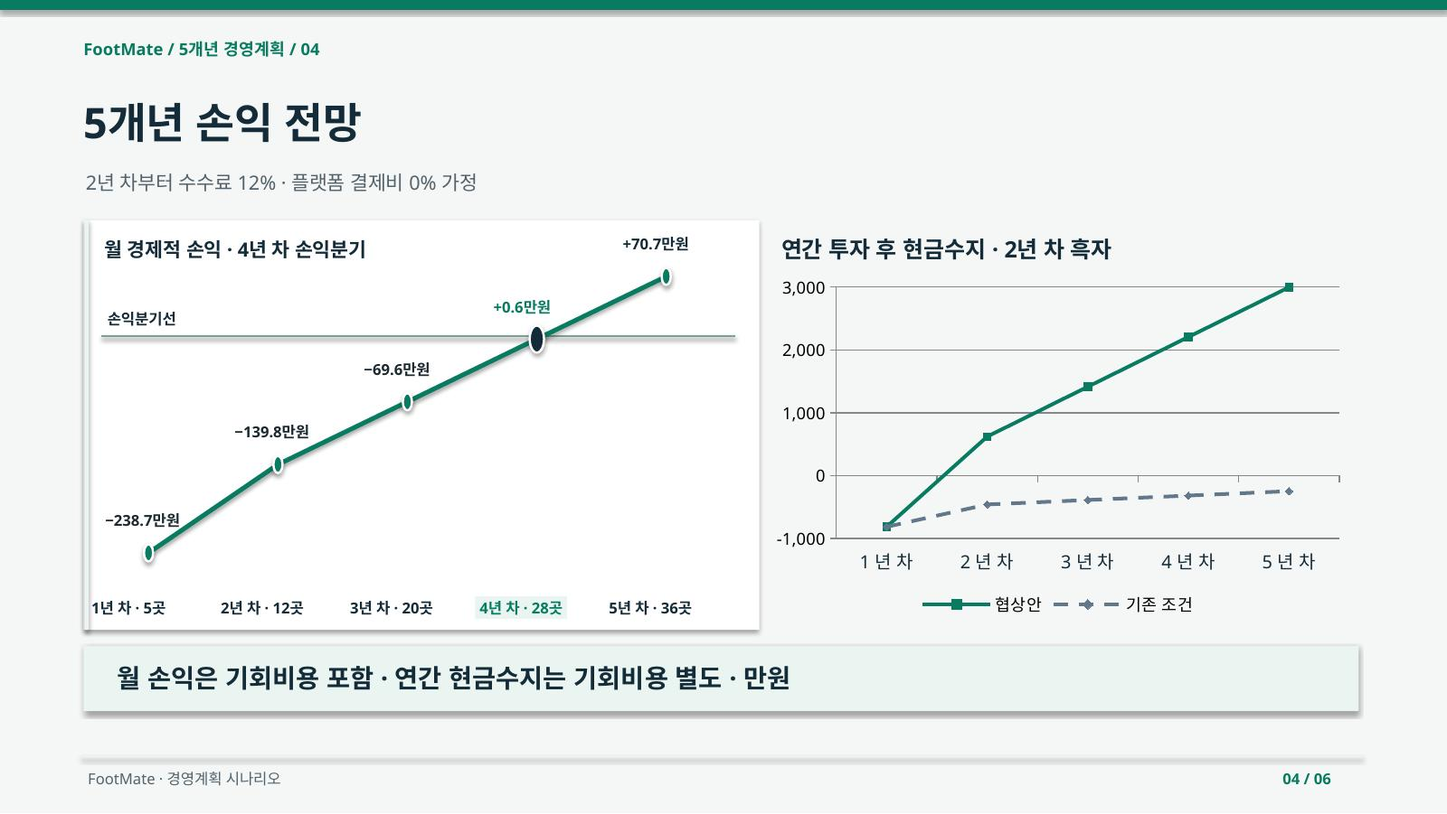
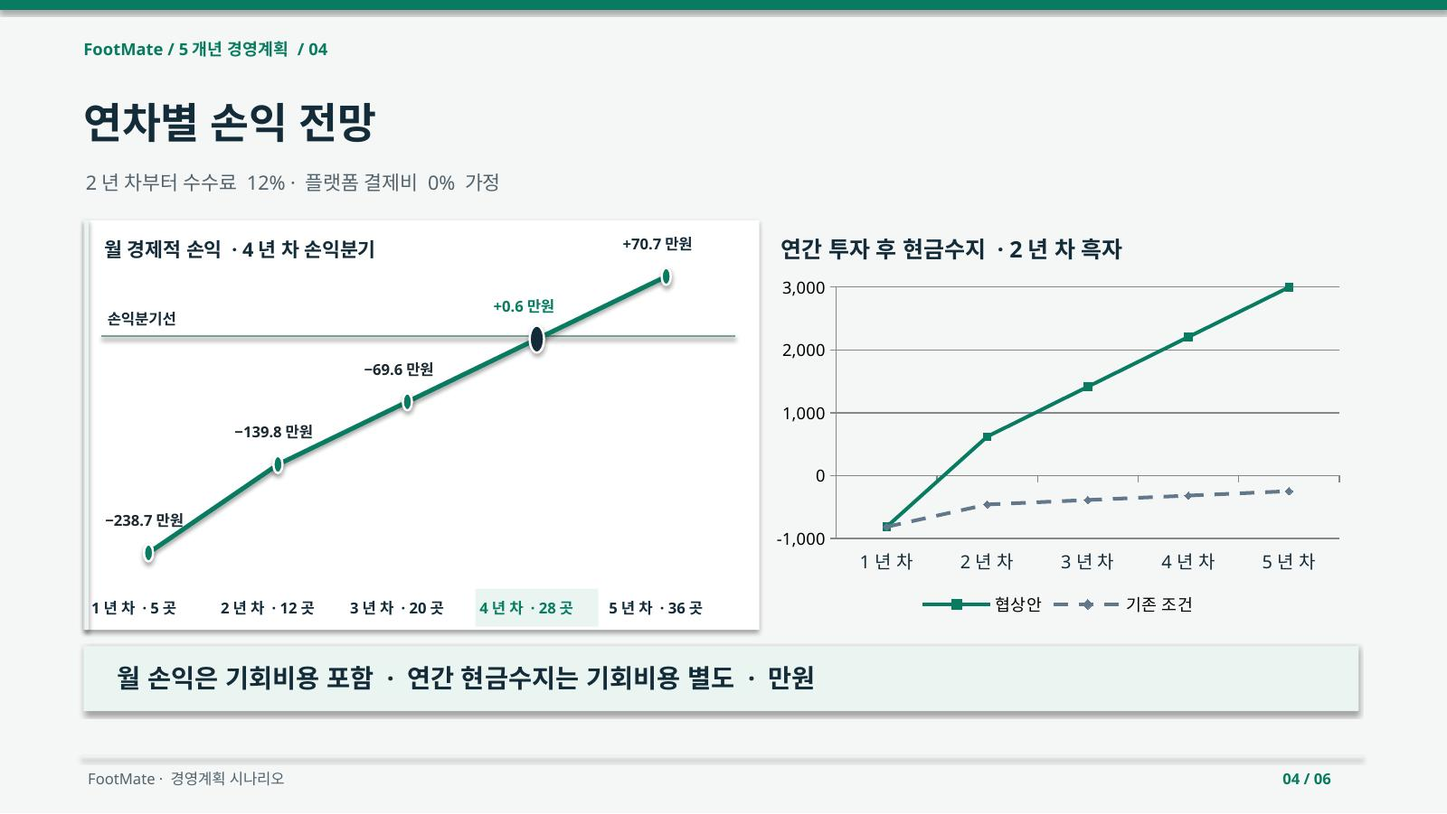
Remove repeated headings and descriptions across report and all three presentations

diff --git a/src/case-study/nine-sections.js b/src/case-study/nine-sections.js
@@ -20,7 +20,7 @@ const sections = [
     "name": "사업모델·역할",
     "title": "사업모델 비교·제휴형 선택",
     "lead": "누가 모집·운영·취소·정산 책임을 갖는지 먼저 정의한다.",
-    "body": "<p class=\"decision\">운영자 제휴형으로 시작하고, 직접 운영·구독형은 검증 후 검토한다.</p><p>기존 경기로 시범 운영한다. 유료 전환 전 취소·환불 책임과 정산 기준을 합의한다.</p><details class=\"case-extra\"><summary>세 가지 사업모델 비교</summary><div class=\"detail-body\"><div class=\"table-wrap\" role=\"region\" aria-label=\"사업모델 비교\" tabindex=\"0\"><table><caption>사업모델 비교</caption><thead><tr><th scope=\"col\">모델</th><th scope=\"col\">수익 구조</th><th scope=\"col\">비용·운영 요건</th><th scope=\"col\">판단</th></tr></thead><tbody><tr><th scope=\"row\">제휴형 경기 연결</th><td data-label=\"수익 구조\">완료 예약 거래액의 수수료</td><td data-label=\"비용·운영 요건\">운영자 공급 연동·고객 대응·정산 필요</td><td data-label=\"판단\">초기 현장 검증 우선안</td></tr><tr><th scope=\"row\">직접 경기 운영</th><td data-label=\"수익 구조\">참가비 총액에서 운영 원가 차감</td><td data-label=\"비용·운영 요건\">구장 대관·매니저 확보·최소 운영 인원·기상 대응 필요</td><td data-label=\"판단\">충원율과 운영 역량 확보 후 검토</td></tr><tr><th scope=\"row\">운영 도구 구독</th><td data-label=\"수익 구조\">운영자별 월 구독료</td><td data-label=\"비용·운영 요건\">업무 효율 가치·지불 의향 검증 필요</td><td data-label=\"판단\">지불 의향 확인 후 후속 검토</td></tr></tbody></table></div></div></details><details class=\"case-extra\"><summary>제휴형 운영 책임·유료 전환 요건</summary><div class=\"detail-body\"><div class=\"table-wrap\" role=\"region\" aria-label=\"제휴형 운영 책임 제안\" tabindex=\"0\"><table><caption>제휴형 운영 책임 제안</caption><thead><tr><th scope=\"col\">주체</th><th scope=\"col\">역할</th><th scope=\"col\">계약 전 확인</th></tr></thead><tbody><tr><th scope=\"row\">FootMate</th><td data-label=\"역할\">경기 노출·조건 추천·참가 기록·문의 접수·정산 금액 대조</td><td data-label=\"계약 전 확인\">거래 주체, 결제·환불 책임, 수수료 정산 기준</td></tr><tr><th scope=\"row\">경기 운영자</th><td data-label=\"역할\">경기 개설·정원 기준 정보·현장 진행·취소 결정</td><td data-label=\"계약 전 확인\">인원 미달·기상·노쇼·안전 대응과 정보 갱신 책임</td></tr><tr><th scope=\"row\">참가자</th><td data-label=\"역할\">조건·정책 확인 후 직접 참가 확정</td><td data-label=\"계약 전 확인\">취소 기한·출석·환불 조건 확인</td></tr></tbody></table></div><p aria-label=\"참가·결제는 이용자가 직접 확정하도록 설계한다.\">결제·환불·정산은 계약 후 확정. 참가·결제는 이용자 직접 승인.</p></div></details><details class=\"case-extra\"><summary>대안별 전환 조건·제휴 협상 근거</summary><div class=\"detail-body\"><h3>대안 선택·전환 조건</h3><div class=\"table-wrap\" role=\"region\" aria-label=\"사업모델 선택 기준\" tabindex=\"0\"><table><caption>사업모델 선택 기준</caption><thead><tr><th scope=\"col\">대안</th><th scope=\"col\">초기 투자·운영 범위</th><th scope=\"col\">선택 이유·전환 조건</th></tr></thead><tbody><tr><th scope=\"row\">제휴형 연결 · 우선 현장 검증</th><td data-label=\"초기 투자·운영 범위\">기존 경기 공급 연결. 연동·고객 대응·정산 비용 확인</td><td data-label=\"선택 이유·전환 조건\">공급 일정·수수료·정산 조건 확보 후 현장 검증</td></tr><tr><th scope=\"row\">직접 운영 · 조건부 대안</th><td data-label=\"초기 투자·운영 범위\">대관·매니저·현장 운영. 손익분기 14명(월 비용 별도).</td><td data-label=\"선택 이유·전환 조건\">반복 수요·현장 인력 확보, 취소 비용 포함 손익 검토 후 전환</td></tr><tr><th scope=\"row\">운영 도구 구독 · 후속 대안</th><td data-label=\"초기 투자·운영 범위\">운영 시간·도입 비용·지원 원가 조사. 구독료·전환율은 후속 검증</td><td data-label=\"선택 이유·전환 조건\">반복 업무·지불 의향 확인 후 구독 방식 시험 운영</td></tr></tbody></table></div><h3>제휴·영업 전략 의사결정 요약</h3><div class=\"table-wrap\" role=\"region\" tabindex=\"0\" aria-label=\"제휴 전략 의사결정표\"><table><caption>제휴·영업 전략 의사결정표 · 산정 근거</caption><thead><tr><th scope=\"col\">우선 검토</th><th scope=\"col\">제휴·협상 조건</th><th scope=\"col\">손익 영향과 판단</th></tr></thead><tbody><tr><th scope=\"row\">1 · 초기 공급 확보</th><td data-label=\"제휴·협상 조건\">운영자의 실제 슬롯·정원·취소 책임·수수료 수용 범위 확인</td><td data-label=\"손익 영향과 판단\">기준 10%·340원/건. 공급·책임 기준을 합의한 뒤 진행.</td></tr><tr><th scope=\"row\">2 · 조건별 협상</th><td data-label=\"제휴·협상 조건\">수수료 12%, 플랫폼 결제비 운영자 부담을 개별·복합 비교</td><td data-label=\"손익 영향과 판단\">12% 580원·결제비 0% 700원·복합 940원/건.</td></tr><tr><th scope=\"row\">3 · 조건부 확대</th><td data-label=\"제휴·협상 조건\">공급 유지율·플랫폼 예약 비중·추가 관리비를 동일 기간에 재계산</td><td data-label=\"손익 영향과 판단\">복합 협상 · 6번째부터 월 3만원/곳. 손익분기 약 28곳.</td></tr><tr><th scope=\"row\">협상 제안 · 우선안</th><td data-label=\"제휴·협상 조건\">수수료 12% · 결제비 운영자 부담</td><td data-label=\"손익 영향과 판단\">940원/건. 우선안으로 견적과 예상 손익 대조.</td></tr><tr><th scope=\"row\">협상 제안 · 조정안</th><td data-label=\"제휴·협상 조건\">수수료 10% 유지 · 결제비 운영자 부담</td><td data-label=\"손익 영향과 판단\">700원/건. 공급 확약을 전제로 확대 손익 재산정.</td></tr><tr><th scope=\"row\">계약 검토 · 운영 책임</th><td data-label=\"제휴·협상 조건\">운영자 취소 승인·환불 실행 / 플랫폼 문의 접수</td><td data-label=\"손익 영향과 판단\">정산 주기·수수료 차감·환불 차액 대사 기준 합의.</td></tr><tr><th scope=\"row\">계약 검토 · 집행 조건</th><td data-label=\"제휴·협상 조건\">슬롯·취소 기준·정산 내역을 계약 부속표에 명시</td><td data-label=\"손익 영향과 판단\">결제·환불·정산 책임 합의 후 유료 시범 승인.</td></tr></tbody></table></div></div></details><p class=\"source-note case-research-link\">타사 제휴 참고 · <a href=\"https://www.plabfootball.com/partners/venue\" target=\"_blank\" rel=\"noopener noreferrer\">플랩풋볼 구장 제휴 안내 ↗</a></p>"
+    "body": "<p class=\"decision\">운영자 제휴형으로 시작하고, 직접 운영·구독형은 검증 후 검토한다.</p><p>기존 경기로 시범 운영한다. 유료 전환 전 취소·환불 책임과 정산 기준을 합의한다.</p><details class=\"case-extra\"><summary>세 가지 사업모델 비교</summary><div class=\"detail-body\"><div class=\"table-wrap\" role=\"region\" aria-label=\"사업모델 비교\" tabindex=\"0\"><table><caption>수익 구조와 운영 요건</caption><thead><tr><th scope=\"col\">모델</th><th scope=\"col\">수익 구조</th><th scope=\"col\">비용·운영 요건</th><th scope=\"col\">판단</th></tr></thead><tbody><tr><th scope=\"row\">제휴형 경기 연결</th><td data-label=\"수익 구조\">완료 예약 거래액의 수수료</td><td data-label=\"비용·운영 요건\">운영자 공급 연동·고객 대응·정산 필요</td><td data-label=\"판단\">초기 현장 검증 우선안</td></tr><tr><th scope=\"row\">직접 경기 운영</th><td data-label=\"수익 구조\">참가비 총액에서 운영 원가 차감</td><td data-label=\"비용·운영 요건\">구장 대관·매니저 확보·최소 운영 인원·기상 대응 필요</td><td data-label=\"판단\">충원율과 운영 역량 확보 후 검토</td></tr><tr><th scope=\"row\">운영 도구 구독</th><td data-label=\"수익 구조\">운영자별 월 구독료</td><td data-label=\"비용·운영 요건\">업무 효율 가치·지불 의향 검증 필요</td><td data-label=\"판단\">지불 의향 확인 후 후속 검토</td></tr></tbody></table></div></div></details><details class=\"case-extra\"><summary>제휴형 운영 책임·유료 전환 요건</summary><div class=\"detail-body\"><div class=\"table-wrap\" role=\"region\" aria-label=\"제휴형 운영 책임 제안\" tabindex=\"0\"><table><caption>제휴형 운영 책임 제안</caption><thead><tr><th scope=\"col\">주체</th><th scope=\"col\">역할</th><th scope=\"col\">계약 전 확인</th></tr></thead><tbody><tr><th scope=\"row\">FootMate</th><td data-label=\"역할\">경기 노출·조건 추천·참가 기록·문의 접수·정산 금액 대조</td><td data-label=\"계약 전 확인\">거래 주체, 결제·환불 책임, 수수료 정산 기준</td></tr><tr><th scope=\"row\">경기 운영자</th><td data-label=\"역할\">경기 개설·정원 기준 정보·현장 진행·취소 결정</td><td data-label=\"계약 전 확인\">인원 미달·기상·노쇼·안전 대응과 정보 갱신 책임</td></tr><tr><th scope=\"row\">참가자</th><td data-label=\"역할\">조건·정책 확인 후 직접 참가 확정</td><td data-label=\"계약 전 확인\">취소 기한·출석·환불 조건 확인</td></tr></tbody></table></div><p aria-label=\"참가·결제는 이용자가 직접 확정하도록 설계한다.\">결제·환불·정산은 계약 후 확정. 참가·결제는 이용자 직접 승인.</p></div></details><details class=\"case-extra\"><summary>대안별 전환 조건·제휴 협상 근거</summary><div class=\"detail-body\"><h3>대안 선택·전환 조건</h3><div class=\"table-wrap\" role=\"region\" aria-label=\"사업모델 선택 기준\" tabindex=\"0\"><table><caption>사업모델 선택 기준</caption><thead><tr><th scope=\"col\">대안</th><th scope=\"col\">초기 투자·운영 범위</th><th scope=\"col\">선택 이유·전환 조건</th></tr></thead><tbody><tr><th scope=\"row\">제휴형 연결 · 우선 현장 검증</th><td data-label=\"초기 투자·운영 범위\">기존 경기 공급 연결. 연동·고객 대응·정산 비용 확인</td><td data-label=\"선택 이유·전환 조건\">공급 일정·수수료·정산 조건 확보 후 현장 검증</td></tr><tr><th scope=\"row\">직접 운영 · 조건부 대안</th><td data-label=\"초기 투자·운영 범위\">대관·매니저·현장 운영. 손익분기 14명(월 비용 별도).</td><td data-label=\"선택 이유·전환 조건\">반복 수요·현장 인력 확보, 취소 비용 포함 손익 검토 후 전환</td></tr><tr><th scope=\"row\">운영 도구 구독 · 후속 대안</th><td data-label=\"초기 투자·운영 범위\">운영 시간·도입 비용·지원 원가 조사. 구독료·전환율은 후속 검증</td><td data-label=\"선택 이유·전환 조건\">반복 업무·지불 의향 확인 후 구독 방식 시험 운영</td></tr></tbody></table></div><h3>제휴·영업 전략 의사결정 요약</h3><div class=\"table-wrap\" role=\"region\" tabindex=\"0\" aria-label=\"제휴 전략 의사결정표\"><table><caption>제휴·영업 전략 의사결정표 · 산정 근거</caption><thead><tr><th scope=\"col\">우선 검토</th><th scope=\"col\">제휴·협상 조건</th><th scope=\"col\">손익 영향과 판단</th></tr></thead><tbody><tr><th scope=\"row\">1 · 초기 공급 확보</th><td data-label=\"제휴·협상 조건\">운영자의 실제 슬롯·정원·취소 책임·수수료 수용 범위 확인</td><td data-label=\"손익 영향과 판단\">기준 10%·340원/건. 공급·책임 기준을 합의한 뒤 진행.</td></tr><tr><th scope=\"row\">2 · 조건별 협상</th><td data-label=\"제휴·협상 조건\">수수료 12%, 플랫폼 결제비 운영자 부담을 개별·복합 비교</td><td data-label=\"손익 영향과 판단\">12% 580원·결제비 0% 700원·복합 940원/건.</td></tr><tr><th scope=\"row\">3 · 조건부 확대</th><td data-label=\"제휴·협상 조건\">공급 유지율·플랫폼 예약 비중·추가 관리비를 동일 기간에 재계산</td><td data-label=\"손익 영향과 판단\">복합 협상 · 6번째부터 월 3만원/곳. 손익분기 약 28곳.</td></tr><tr><th scope=\"row\">협상 제안 · 우선안</th><td data-label=\"제휴·협상 조건\">수수료 12% · 결제비 운영자 부담</td><td data-label=\"손익 영향과 판단\">940원/건. 우선안으로 견적과 예상 손익 대조.</td></tr><tr><th scope=\"row\">협상 제안 · 조정안</th><td data-label=\"제휴·협상 조건\">수수료 10% 유지 · 결제비 운영자 부담</td><td data-label=\"손익 영향과 판단\">700원/건. 공급 확약을 전제로 확대 손익 재산정.</td></tr><tr><th scope=\"row\">계약 검토 · 운영 책임</th><td data-label=\"제휴·협상 조건\">운영자 취소 승인·환불 실행 / 플랫폼 문의 접수</td><td data-label=\"손익 영향과 판단\">정산 주기·수수료 차감·환불 차액 대사 기준 합의.</td></tr><tr><th scope=\"row\">계약 검토 · 집행 조건</th><td data-label=\"제휴·협상 조건\">슬롯·취소 기준·정산 내역을 계약 부속표에 명시</td><td data-label=\"손익 영향과 판단\">결제·환불·정산 책임 합의 후 유료 시범 승인.</td></tr></tbody></table></div></div></details><p class=\"source-note case-research-link\">타사 제휴 참고 · <a href=\"https://www.plabfootball.com/partners/venue\" target=\"_blank\" rel=\"noopener noreferrer\">플랩풋볼 구장 제휴 안내 ↗</a></p>"
   },
   {
     "name": "수요·공급 시나리오",
@@ -38,7 +38,7 @@ const sections = [
     "name": "IT 투자·시스템 구조",
     "title": "IT 구축 범위·투자 계획",
     "lead": "구현한 기능과 추가로 필요한 시스템을 구분한다.",
-    "body": "<div class=\"decision-grid\" aria-label=\"구현·검증·후속 과제\"><article class=\"decision-card\"><p class=\"decision-card-label\">구현</p><h2>보조 서비스 구현</h2><p>로그인·경기·참가·취소·정원·AI·알림 구현.</p></article><article class=\"decision-card\"><p class=\"decision-card-label\">검증</p><h2>예시 데이터로 기능 확인</h2><p>참가·취소 흐름과 화면 접근성을 확인.</p></article><article class=\"decision-card\"><p class=\"decision-card-label\">후속 구축 항목</p><h2>유료 전환 시스템</h2><p>계약 조건을 확인한 뒤 결제·환불·정산 기능 구축.</p></article></div><details class=\"case-extra\"><summary>기능별 확인 결과</summary><div class=\"detail-body\"><div class=\"table-wrap\" role=\"region\" aria-label=\"구현·검증 요약\" tabindex=\"0\"><table><caption>구현·검증 요약</caption><thead><tr><th scope=\"col\">영역</th><th scope=\"col\">구현·확인 결과</th><th scope=\"col\">검증 범위·후속 과제</th></tr></thead><tbody><tr><th scope=\"row\">참가·취소</th><td data-label=\"구현 결과\">참가 시 정원 차감·취소 시 복원. 중복 참가 차단.</td><td data-label=\"후속 검증\">참가·정원 처리 구현. 실제 현장 운영은 별도 현장 검증</td></tr><tr><th scope=\"row\">이용 흐름</th><td data-label=\"구현 결과\">로그인 → 참가 → 새로고침 → 취소 흐름 확인.</td><td data-label=\"후속 검증\">화면 동작 검사. 실제 서버의 동시 요청 처리는 별도 검증</td></tr><tr><th scope=\"row\">화면·접근성</th><td data-label=\"구현 결과\">320–1920px·200% 확대·키보드·접근성 검사 통과.</td><td data-label=\"후속 검증\">기술 동작 확인. 고객 수요·재참가·유료 매출과 구분</td></tr><tr><th scope=\"row\">결제·정산</th><td data-label=\"구현 결과\">무료 참가 구현 · 결제·환불·정산은 유료화 단계에 구축</td><td data-label=\"후속 검증\">계약·환불·정산 책임 확정 후 별도 구축·검증</td></tr></tbody></table></div></div></details><p><a href=\"https://footmate.fmate.workers.dev/demo\" target=\"_blank\" rel=\"noopener noreferrer\">서비스 데모 ↗</a></p><h2 class=\"block-title\">시스템·데이터 구조</h2><ol class=\"architecture\"><li><strong>이용자·운영자</strong><span>조건 선택·참가 요청 / 경기·참가 상태 관리</span></li><li><strong>웹·API</strong><span>로그인 확인·추천 요청·화면 제공</span></li><li><strong>서버 데이터</strong><span>계정·경기·포지션 정원·참가·체크인·피드백</span></li><li><strong>외부 연동·후속</strong><span>AI·이메일·브라우저 알림 / 결제·정산 후속 구축 대상</span></li></ol><details class=\"case-extra\"><summary>IT 도입·구축 범위 상세 비교</summary><div class=\"detail-body\"><div class=\"table-wrap\" role=\"region\" aria-label=\"IT 도입과 구축 범위\" tabindex=\"0\"><table><caption>IT 도입과 구축 범위</caption><thead><tr><th scope=\"col\">영역</th><th scope=\"col\">기존 구현·추가 설계</th><th scope=\"col\">후속 투자 기준</th></tr></thead><tbody><tr><th scope=\"row\">인증·데이터</th><td data-label=\"구현 상태\">기존 구현 · 로그인·참가·포지션별 정원·출석 기록 연동</td><td data-label=\"후속 조건\">접근 통제·정원 일관성·복구 방안 검증</td></tr><tr><th scope=\"row\">웹·API 배포</th><td data-label=\"구현 상태\">기존 구현 · 웹 화면·서버 기능 배포</td><td data-label=\"후속 조건\">배포·복구 절차와 사용량 예산 관리</td></tr><tr><th scope=\"row\">AI</th><td data-label=\"구현 상태\">기존 구현 · 선택 조건에 맞는 실제 경기 중 AI 추천 순서 적용</td><td data-label=\"후속 조건\">기본 정렬 대비 효과 확인 후 호출 예산 확대</td></tr><tr><th scope=\"row\">운영 알림</th><td data-label=\"구현 상태\">기존 연동 · 이메일·동의 기반 브라우저 알림</td><td data-label=\"후속 조건\">전달 상태·중복 방지·재처리·비용 모니터링</td></tr><tr><th scope=\"row\">유료 전환</th><td data-label=\"구현 상태\">향후 구축 · 유료 결제·환불·운영자 정산은 후속 구축 범위</td><td data-label=\"후속 조건\">운영자 계약과 손익 검증 후 결제·환불·거래 기록 대조 체계 구축</td></tr></tbody></table></div></div></details><details><summary>월 IT·운영 예산 세부 내역</summary><div class=\"detail-body\"><div class=\"table-wrap\" role=\"region\" aria-label=\"월 IT·운영 고정비 예산 · 견적 전 계획\" tabindex=\"0\"><table><caption>월 IT·운영 고정비 예산 · 견적 전 계획</caption><thead><tr><th scope=\"col\">항목</th><th scope=\"col\">계획 예산</th><th scope=\"col\">통제 방법</th></tr></thead><tbody><tr><th scope=\"row\">인프라 기본료·저장</th><td data-label=\"예산\">150,000원</td><td data-label=\"운영 기준\">요청·저장 사용량과 경보 한도</td></tr><tr><th scope=\"row\">운영 도구</th><td data-label=\"예산\">100,000원</td><td data-label=\"운영 기준\">필수 도구만 유지, 월별 재검토</td></tr><tr><th scope=\"row\">모니터링·관리</th><td data-label=\"예산\">150,000원</td><td data-label=\"운영 기준\">고정 관리 업무 예산, 건별 대응비와 구분</td></tr><tr><th scope=\"row\">예비비</th><td data-label=\"예산\">200,000원</td><td data-label=\"운영 기준\">예상 외 사용량·운영 보완</td></tr><tr><th scope=\"row\">합계</th><td data-label=\"예산\">600,000원/월</td><td data-label=\"운영 기준\">사업 검토를 위해 산정한 계획 예산</td></tr></tbody></table></div></div></details><details><summary>데이터별 관리·검증 기준</summary><div class=\"detail-body\"><div class=\"table-wrap\" role=\"region\" aria-label=\"주요 데이터와 관리 책임\" tabindex=\"0\"><table><caption>주요 데이터와 관리 책임</caption><thead><tr><th scope=\"col\">데이터</th><th scope=\"col\">관리 기준</th><th scope=\"col\">설계·검증 과제</th></tr></thead><tbody><tr><th scope=\"row\">경기·정원</th><td data-label=\"관리 기준\">운영자 등록, 등록된 경기·포지션별 잔여 인원 확인</td><td data-label=\"후속 검증\">서버 권한·상태 일관성 검증</td></tr><tr><th scope=\"row\">참가·취소</th><td data-label=\"관리 기준\">인증·권한·취소 기한과 정원 복원 확인</td><td data-label=\"후속 검증\">서버 권한·상태 일관성 검증</td></tr><tr><th scope=\"row\">예시 경기 기록</th><td data-label=\"관리 기준\">운영 데이터와 분리한 테스트 기록</td><td data-label=\"후속 검증\">테스트·운영 데이터 분리</td></tr><tr><th scope=\"row\">체크인·피드백</th><td data-label=\"관리 기준\">해당 참가·경기 상태에 연결</td><td data-label=\"후속 검증\">서버 권한·상태 일관성 검증</td></tr><tr><th scope=\"row\">결제·정산 원장</th><td data-label=\"관리 기준\">예약 ID·결제·환불·수수료·지급 상태 대조</td><td data-label=\"후속 검증\">유료 전환 전 구축·검증</td></tr></tbody></table></div></div></details><p>유료 전환 시 참가·결제 상태 분리. 중복 요청·환불·정산 오류 검증.</p><details><summary>참가·정원 관리의 설계 이유</summary><div class=\"detail-body\"><p>잔여 자리 재확인 후 참가·취소 처리.</p><p>참가·정원 동시 갱신. 중복 요청은 기존 결과 반환.</p><p>가상 데이터로 참가·취소·정원 복원 확인.</p></div></details>"
+    "body": "<div class=\"decision-grid\" aria-label=\"구현·검증·후속 과제\"><article class=\"decision-card\"><p class=\"decision-card-label\">구현</p><h2>보조 서비스 구현</h2><p>로그인·경기·참가·취소·정원·AI·알림.</p></article><article class=\"decision-card\"><p class=\"decision-card-label\">검증</p><h2>예시 데이터로 기능 확인</h2><p>점검 대상은 참가·취소 흐름과 화면 접근성.</p></article><article class=\"decision-card\"><p class=\"decision-card-label\">후속 구축 항목</p><h2>유료 전환 시스템</h2><p>계약 조건을 확인한 뒤 결제·환불·정산 기능 구축.</p></article></div><details class=\"case-extra\"><summary>기능별 확인 결과</summary><div class=\"detail-body\"><div class=\"table-wrap\" role=\"region\" aria-label=\"구현·검증 요약\" tabindex=\"0\"><table><caption>구현·검증 요약</caption><thead><tr><th scope=\"col\">영역</th><th scope=\"col\">구현·확인 결과</th><th scope=\"col\">검증 범위·후속 과제</th></tr></thead><tbody><tr><th scope=\"row\">참가·취소</th><td data-label=\"구현 결과\">참가 시 정원 차감·취소 시 복원. 중복 참가 차단.</td><td data-label=\"후속 검증\">참가·정원 처리 구현. 실제 현장 운영은 별도 현장 검증</td></tr><tr><th scope=\"row\">이용 흐름</th><td data-label=\"구현 결과\">로그인 → 참가 → 새로고침 → 취소 흐름 확인.</td><td data-label=\"후속 검증\">화면 동작 검사. 실제 서버의 동시 요청 처리는 별도 검증</td></tr><tr><th scope=\"row\">화면·접근성</th><td data-label=\"구현 결과\">320–1920px·200% 확대·키보드·접근성 검사 통과.</td><td data-label=\"후속 검증\">기술 동작 확인. 고객 수요·재참가·유료 매출과 구분</td></tr><tr><th scope=\"row\">결제·정산</th><td data-label=\"구현 결과\">무료 참가 구현 · 결제·환불·정산은 유료화 단계에 구축</td><td data-label=\"후속 검증\">계약·환불·정산 책임 확정 후 별도 구축·검증</td></tr></tbody></table></div></div></details><p><a href=\"https://footmate.fmate.workers.dev/demo\" target=\"_blank\" rel=\"noopener noreferrer\">서비스 데모 ↗</a></p><h2 class=\"block-title\">시스템·데이터 구조</h2><ol class=\"architecture\"><li><strong>이용자·운영자</strong><span>조건 선택·참가 요청 / 경기·참가 상태 관리</span></li><li><strong>웹·API</strong><span>로그인 확인·추천 요청·화면 제공</span></li><li><strong>서버 데이터</strong><span>계정·경기·포지션 정원·참가·체크인·피드백</span></li><li><strong>외부 연동·후속</strong><span>AI·이메일·브라우저 알림 / 결제·정산 후속 구축 대상</span></li></ol><details class=\"case-extra\"><summary>IT 도입·구축 범위 상세 비교</summary><div class=\"detail-body\"><div class=\"table-wrap\" role=\"region\" aria-label=\"IT 도입과 구축 범위\" tabindex=\"0\"><table><caption>기존 기능과 후속 투자 기준</caption><thead><tr><th scope=\"col\">영역</th><th scope=\"col\">기존 구현·추가 설계</th><th scope=\"col\">후속 투자 기준</th></tr></thead><tbody><tr><th scope=\"row\">인증·데이터</th><td data-label=\"구현 상태\">기존 구현 · 로그인·참가·포지션별 정원·출석 기록 연동</td><td data-label=\"후속 조건\">접근 통제·정원 일관성·복구 방안 검증</td></tr><tr><th scope=\"row\">웹·API 배포</th><td data-label=\"구현 상태\">기존 구현 · 웹 화면·서버 기능 배포</td><td data-label=\"후속 조건\">배포·복구 절차와 사용량 예산 관리</td></tr><tr><th scope=\"row\">AI</th><td data-label=\"구현 상태\">기존 구현 · 선택 조건에 맞는 실제 경기 중 AI 추천 순서 적용</td><td data-label=\"후속 조건\">기본 정렬 대비 효과 확인 후 호출 예산 확대</td></tr><tr><th scope=\"row\">운영 알림</th><td data-label=\"구현 상태\">기존 연동 · 이메일·동의 기반 브라우저 알림</td><td data-label=\"후속 조건\">전달 상태·중복 방지·재처리·비용 모니터링</td></tr><tr><th scope=\"row\">유료 전환</th><td data-label=\"구현 상태\">향후 구축 · 유료 결제·환불·운영자 정산은 후속 구축 범위</td><td data-label=\"후속 조건\">운영자 계약과 손익 검증 후 결제·환불·거래 기록 대조 체계 구축</td></tr></tbody></table></div></div></details><details><summary>월 IT·운영 예산 세부 내역</summary><div class=\"detail-body\"><div class=\"table-wrap\" role=\"region\" aria-label=\"월 IT·운영 고정비 예산 · 견적 전 계획\" tabindex=\"0\"><table><caption>월 IT·운영 고정비 예산 · 견적 전 계획</caption><thead><tr><th scope=\"col\">항목</th><th scope=\"col\">계획 예산</th><th scope=\"col\">통제 방법</th></tr></thead><tbody><tr><th scope=\"row\">인프라 기본료·저장</th><td data-label=\"예산\">150,000원</td><td data-label=\"운영 기준\">요청·저장 사용량과 경보 한도</td></tr><tr><th scope=\"row\">운영 도구</th><td data-label=\"예산\">100,000원</td><td data-label=\"운영 기준\">필수 도구만 유지, 월별 재검토</td></tr><tr><th scope=\"row\">모니터링·관리</th><td data-label=\"예산\">150,000원</td><td data-label=\"운영 기준\">고정 관리 업무 예산, 건별 대응비와 구분</td></tr><tr><th scope=\"row\">예비비</th><td data-label=\"예산\">200,000원</td><td data-label=\"운영 기준\">예상 외 사용량·운영 보완</td></tr><tr><th scope=\"row\">합계</th><td data-label=\"예산\">600,000원/월</td><td data-label=\"운영 기준\">사업 검토를 위해 산정한 계획 예산</td></tr></tbody></table></div></div></details><details><summary>데이터별 관리·검증 기준</summary><div class=\"detail-body\"><div class=\"table-wrap\" role=\"region\" aria-label=\"주요 데이터와 관리 책임\" tabindex=\"0\"><table><caption>주요 데이터와 관리 책임</caption><thead><tr><th scope=\"col\">데이터</th><th scope=\"col\">관리 기준</th><th scope=\"col\">설계·검증 과제</th></tr></thead><tbody><tr><th scope=\"row\">경기·정원</th><td data-label=\"관리 기준\">운영자 등록, 등록된 경기·포지션별 잔여 인원 확인</td><td data-label=\"후속 검증\">서버 권한·상태 일관성 검증</td></tr><tr><th scope=\"row\">참가·취소</th><td data-label=\"관리 기준\">인증·권한·취소 기한과 정원 복원 확인</td><td data-label=\"후속 검증\">서버 권한·상태 일관성 검증</td></tr><tr><th scope=\"row\">예시 경기 기록</th><td data-label=\"관리 기준\">운영 데이터와 분리한 테스트 기록</td><td data-label=\"후속 검증\">테스트·운영 데이터 분리</td></tr><tr><th scope=\"row\">체크인·피드백</th><td data-label=\"관리 기준\">해당 참가·경기 상태에 연결</td><td data-label=\"후속 검증\">서버 권한·상태 일관성 검증</td></tr><tr><th scope=\"row\">결제·정산 원장</th><td data-label=\"관리 기준\">예약 ID·결제·환불·수수료·지급 상태 대조</td><td data-label=\"후속 검증\">유료 전환 전 구축·검증</td></tr></tbody></table></div></div></details><p>유료 전환 시 참가·결제 상태 분리. 중복 요청·환불·정산 오류 검증.</p><details><summary>참가·정원 관리의 설계 이유</summary><div class=\"detail-body\"><p>잔여 자리 재확인 후 참가·취소 처리.</p><p>참가·정원 동시 갱신. 중복 요청은 기존 결과 반환.</p><p>가상 데이터로 참가·취소·정원 복원 확인.</p></div></details>"
   },
   {
     "name": "운영 안정성·통제",

diff --git a/src/case-study/materials.html b/src/case-study/materials.html
@@ -270,8 +270,9 @@ function update(){let p='FootMate',c={...DATA.configs[p]};for(let id of ['rate',
 let ms=DATA.monthly.filter(x=>x.project===p);$('monthly').innerHTML=tab(['월','완료 계획','가상 완료','수수료 계획','가상 수수료','수수료 차이','계획 현금손익','가상 현금손익'],ms.map(x=>[x.month,num(x.plan_orders),num(x.sim_orders),money(x.plan_revenue),money(x.sim_revenue),money(x.sim_revenue-x.plan_revenue),money(x.plan_profit),money(x.sim_profit)]));
 let x=ms[5],q0=x.plan_orders,q1=x.sim_orders,p0=q0?x.plan_revenue/q0:0,p1=q1?x.sim_revenue/q1:0,volume=(q1-q0)*p0,price=q1*(p1-p0),cost=(x.sim_profit-x.plan_profit)-(volume+price);$('variance').innerHTML=tab(['6월 원인','손익 영향','조치 제안'],[['완료 물량 차이',money(volume),'플랫폼 예약 비중·취소율·완료율을 구분해 점검'],['건당 수수료 수익 차이',money(price),'상품·가격·수수료 조건 확인'],['순비용 차이',money(cost),'취소 지원·고객 확보·IT 비용 점검'],['손익 차이 합계',money(x.sim_profit-x.plan_profit),'예산 검토에 반영']]);
 let max=Math.max(...ms.flatMap(x=>[x.plan_revenue,x.sim_revenue]),1),bars=ms.map((x,i)=>{let a=150*x.plan_revenue/max,b=150*x.sim_revenue/max;return `<rect x="${30+i*80}" y="${180-a}" width="23" height="${a}" fill="#173f33"/><rect x="${55+i*80}" y="${180-b}" width="23" height="${b}" fill="#8fb69a"/><text x="${30+i*80}" y="205" font-size="13">${i+1}월</text>`}).join('');$('chart').innerHTML='<text x="24" y="18" font-size="14">수수료 매출 비교 · 진한색 계획 / 연한색 가상 실적</text>'+bars;}
-function reset(){let c=DATA.configs['FootMate'];for(let id of ['rate','share','cancel','cac','pg'])$(id).value=c[id]*(id==='cac'?1:100);update()}for(let id of ['rate','share','cancel','cac','pg'])$(id).addEventListener('input',update);$('reset').addEventListener('click',reset);reset();</script><script src="report-previews.js?v=20261117-language"></script><script>const strategyDeck=new URLSearchParams(location.search).get('deck')==='strategy';if(strategyDeck){document.title='FootMate | 5개년 성장 전략';document.querySelector('main h1').textContent='FootMate 5개년 성장 전략';}const slides=strategyDeck?[{"title":"5개년 성장 전략","src":"/src/case-study/previews/strategy/slide-1.jpg"},{"title":"5개년 성장 전략과 투자 우선순위","src":"/src/case-study/previews/strategy/slide-2.jpg"},{"title":"수수료·결제 조건에 따른 공헌이익 개선","src":"/src/case-study/previews/strategy/slide-3.jpg"},{"title":"5개년 손익 전망","src":"/src/case-study/previews/strategy/slide-4.jpg?v=20261111-priority-slides"},{"title":"경영 성과 관리와 전략적 자원 배분","src":"/src/case-study/previews/strategy/slide-5.jpg"},{"title":"성장 규모보다 수익성 있는 확대를 우선","src":"/src/case-study/previews/strategy/slide-6.jpg"}]:window.REPORT_SLIDES;const revisedSlides=slides.map((_,index)=>index+1);
+function reset(){let c=DATA.configs['FootMate'];for(let id of ['rate','share','cancel','cac','pg'])$(id).value=c[id]*(id==='cac'?1:100);update()}for(let id of ['rate','share','cancel','cac','pg'])$(id).addEventListener('input',update);$('reset').addEventListener('click',reset);reset();</script><script src="report-previews.js?v=20261117-language"></script><script>const strategyDeck=new URLSearchParams(location.search).get('deck')==='strategy';if(strategyDeck){document.title='FootMate | 5개년 성장 전략';document.querySelector('main h1').textContent='FootMate 5개년 성장 전략';}const slides=strategyDeck?[{"title":"5개년 성장 전략","src":"/src/case-study/previews/strategy/slide-1.jpg"},{"title":"공급 확대와 투자 우선순위","src":"/src/case-study/previews/strategy/slide-2.jpg"},{"title":"수수료·결제 조건에 따른 공헌이익 개선","src":"/src/case-study/previews/strategy/slide-3.jpg"},{"title":"연차별 손익 전망","src":"/src/case-study/previews/strategy/slide-4.jpg?v=20261111-priority-slides"},{"title":"경영 성과 관리와 전략적 자원 배분","src":"/src/case-study/previews/strategy/slide-5.jpg"},{"title":"성장 규모보다 수익성 있는 확대를 우선","src":"/src/case-study/previews/strategy/slide-6.jpg"}]:window.REPORT_SLIDES;const revisedSlides=slides.map((_,index)=>index+1);
 revisedSlides.forEach(number=>{slides[number-1].src='/src/case-study/previews/'+(strategyDeck?'strategy':'report')+'/decision-'+number+'.jpg?v='+((strategyDeck?[2,4,5]:[2,4,8]).includes(number)?'20261113-polish':'20261113-clean');});
+for (const number of (strategyDeck ? [2, 4] : [9])) slides[number-1].src += '&copy=20261118';
 if (!strategyDeck) slides[0].src = '/src/case-study/previews/report/decision-1.jpg?v=20261118-cover';
 const keypoints=strategyDeck?[
  '공급처 5곳에서 36곳까지 확대하는 경영계획 시나리오.',

diff --git a/index.html b/index.html
@@ -18,8 +18,8 @@
 <a class="skip-link" href="#main">본문으로 이동</a>
 <div class="fm-cs-shell"><aside class="sidebar" aria-label="본문 목차"><div class="sb-brand"><div class="sb-logo">FootMate</div><div class="sb-sub">신사업 사업성 분석·경영계획</div></div><nav class="toc" aria-label="신사업 사업성 분석·경영계획 9개 섹션"></nav></aside>
 <main class="viewer" id="main"><div class="track"><section class="slide"></section><section class="slide"></section><section class="slide"></section><section class="slide"></section><section class="slide"></section><section class="slide"></section><section class="slide"></section><section class="slide"></section><section class="slide"></section></div><noscript><p>이 페이지는 JavaScript가 필요합니다. <a href="/src/case-study/materials.html">분석 자료·원본 다운로드</a>에서 자료를 확인할 수 있습니다.</p></noscript></main></div>
-<script src="/src/case-study/nine-sections.js?v=20261118-deck-copy"></script>
-<script src="/src/case-study/strategy-brief-data.js?v=20261117-language"></script>
+<script src="/src/case-study/nine-sections.js?v=20261118-copy-review"></script>
+<script src="/src/case-study/strategy-brief-data.js?v=20261118-copy-review"></script>
 <script src="/src/case-study/strategy-brief.js?v=20261117-copy-clean"></script>
 </body></html>
 

diff --git a/src/case-study/strategy-brief-data.js b/src/case-study/strategy-brief-data.js
@@ -29,7 +29,7 @@ window.FOOTMATE_STRATEGY_SLIDES = [
     "id": "corpdev",
     "phase": "제휴·인수 검토",
     "title": "제휴 가능성 검토",
-    "subtitle": "공개자료 비교 → 후보 분류 → 계약 조건 검토",
+    "subtitle": "공개자료로 후보를 분류하고 계약 조건을 확인",
     "takeaway": "운영 주체와 시설 사용권을 먼저 확인한다.",
     "bullets": [
       "시설·서비스 8건은 공개자료 비교 대상",
@@ -68,7 +68,7 @@ window.FOOTMATE_STRATEGY_SLIDES = [
     "id": "equity",
     "phase": "성장·투자 논리",
     "title": "확대 조건과 자원배분",
-    "subtitle": "공급·이용·단위손익 → 조건별 확대 심사",
+    "subtitle": "공급 유지율·재참가율·건당 공헌이익",
     "takeaway": "공급·재참가·손익을 실측해 투자 우선순위를 정한다.",
     "bullets": [
       "차별화·재참가 효과는 실제 고객 데이터로 확인",

diff --git a/src/case-study/strategy-brief.html b/src/case-study/strategy-brief.html
@@ -36,7 +36,7 @@
     </div>
   </main>
 </div>
-<script src="/src/case-study/strategy-brief-data.js?v=20261117-language"></script>
+<script src="/src/case-study/strategy-brief-data.js?v=20261118-copy-review"></script>
 <script src="/src/case-study/strategy-brief.js?v=20261117-copy-clean"></script>
 </body>
 </html>

diff --git a/qa/check-strategy-brief.py b/qa/check-strategy-brief.py
@@ -116,7 +116,7 @@ assert "플랫폼 경유 예약" in slides[4]["bullets"][0]
 assert "월 마감 3일 내" in slides[4]["bullets"][2]
 assert "5→12→20→28→36곳" in slides[3]["bullets"][2]
 assert slides[0]["takeaway"] == "공급 유지율·완료 예약·건당 공헌이익으로 투자 규모를 결정한다."
-assert slides[2]["subtitle"] == "공개자료 비교 → 후보 분류 → 계약 조건 검토"
+assert slides[2]["subtitle"] == "공개자료로 후보를 분류하고 계약 조건을 확인"
 assert slides[5]["title"] == "확대 조건과 자원배분"
 assert not any(term in public_slide_text for term in ("노동 기회비용", "관측 기간을 마친 고객", "경유→", "미진행 미진행", "P0–P2"))
 original = (CASE / "nine-sections.js").read_text(encoding="utf-8")

diff --git a/qa/crosscheck-case-study-presentations.py b/qa/crosscheck-case-study-presentations.py
@@ -93,8 +93,8 @@ assert [item["title"] for item in report_viewer] == [
     "확장안도 초기 비용 포함 시 손익률 −11.4%", "최종 판단 · 단계적 투자"
 ]
 assert [item["title"] for item in strategy_viewer] == [
-    "5개년 성장 전략", "5개년 성장 전략과 투자 우선순위",
-    "수수료·결제 조건에 따른 공헌이익 개선", "5개년 손익 전망",
+    "5개년 성장 전략", "공급 확대와 투자 우선순위",
+    "수수료·결제 조건에 따른 공헌이익 개선", "연차별 손익 전망",
     "경영 성과 관리와 전략적 자원 배분", "성장 규모보다 수익성 있는 확대를 우선"
 ]
 for label, viewer, pptx_slides in (
